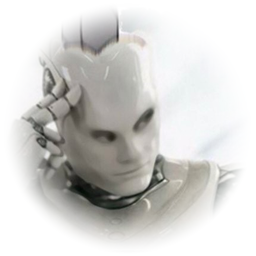
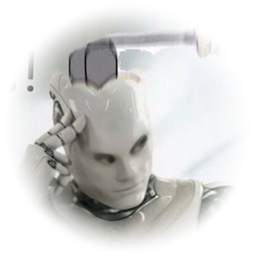
허브 단장 — 배경 도트·떠다니는 카드, 탭 아이콘, 카드 물들임·워터마크·NEW 리본, 깡 아이콘 넓게 다시 자름, 할리갈리 이름 정리

Changed region(s): [[0.0625, 0.0625, 0.9375, 0.9062], [0.7812, 0.5625, 0.8125, 0.5938]]

diff --git a/index.html b/index.html
@@ -107,7 +107,7 @@ header p{margin:0;color:var(--dim);font-size:15px;max-width:42em}
   box-shadow:0 3px 8px -3px var(--gc);
 }
 /* 사진 아이콘 — 가장자리 페이드는 PNG 알파에 구워 넣어서 배경색이 뭐든 자연스럽게 녹는다 */
-.glyph.img{width:54px;height:54px;background:none;box-shadow:none;border-radius:0;overflow:visible}
+.glyph.img{width:68px;height:68px;margin:-8px 0;background:none;box-shadow:none;border-radius:0;overflow:visible}
 .glyph.img img{width:100%;height:100%;display:block;object-fit:cover}
 .name{font-size:19px;font-weight:700;letter-spacing:-.02em}
 .tags{display:flex;gap:6px;flex-wrap:wrap;margin-left:auto}
@@ -138,13 +138,83 @@ footer{
 }
 footer a{color:var(--dim)}
 .disclaimer{margin-left:auto;font-size:11.5px;color:var(--faint);opacity:.75;text-align:right}
+
+/* ══ 꾸밈 ══ */
+body{
+  background-image:
+    radial-gradient(rgba(0,0,0,.045) 1px, transparent 1.2px),
+    radial-gradient(700px 320px at 12% -8%, rgba(216,51,43,.12), transparent 60%),
+    radial-gradient(600px 300px at 92% 4%, rgba(180,87,31,.12), transparent 60%);
+  background-size:22px 22px, auto, auto;
+}
+@media (prefers-color-scheme:dark){ body{background-image:
+    radial-gradient(rgba(255,255,255,.045) 1px, transparent 1.2px),
+    radial-gradient(700px 320px at 12% -8%, rgba(216,51,43,.16), transparent 60%),
+    radial-gradient(600px 300px at 92% 4%, rgba(180,87,31,.12), transparent 60%)} }
+.wrap{position:relative;z-index:1}
+/* 뒤에서 천천히 떠다니는 카드 실루엣 */
+.bgcards{position:fixed;inset:0;overflow:hidden;pointer-events:none;z-index:0}
+.bgcards i{
+  position:absolute;width:64px;height:90px;border-radius:9px;
+  border:2px solid var(--line);background:var(--panel);opacity:.55;
+  animation:drift var(--t,26s) ease-in-out infinite alternate;
+}
+.bgcards i:nth-child(1){left:6%;top:18%;--t:24s;rotate:-14deg}
+.bgcards i:nth-child(2){left:16%;top:72%;--t:31s;rotate:9deg;width:50px;height:70px}
+.bgcards i:nth-child(3){left:80%;top:12%;--t:28s;rotate:12deg}
+.bgcards i:nth-child(4){left:90%;top:64%;--t:22s;rotate:-7deg;width:54px;height:76px}
+.bgcards i:nth-child(5){left:46%;top:88%;--t:34s;rotate:4deg}
+.bgcards i:nth-child(6){left:60%;top:-4%;--t:27s;rotate:-20deg;width:46px;height:64px}
+@keyframes drift{from{translate:0 0}to{translate:14px -26px}}
+@media (prefers-reduced-motion:reduce){.bgcards i{animation:none}}
+@media (max-width:640px){.bgcards{display:none}}
+
+/* 레드버튼 받침·라벨 */
+.rb{display:flex;flex-direction:column;align-items:center;gap:12px}
+.rb-label{font-size:10px;letter-spacing:.32em;text-transform:uppercase;color:var(--faint);padding-left:.32em}
+.redbtn:hover{filter:brightness(1.1) drop-shadow(0 0 14px rgba(216,51,43,.45))}
+
+/* 탭 아이콘 */
+.tab::before{font-size:13px;opacity:.9}
+.tab[data-cat="전체"]::before{content:"✦"}
+.tab[data-cat="멀티"]::before{content:"👥"}
+.tab[data-cat="싱글"]::before{content:"🧍"}
+.tab[data-cat="보드게임"]::before{content:"🎲"}
+.tab[data-cat="로그라이크"]::before{content:"🗝"}
+.tab[data-cat="장난감"]::before{content:"🔧"}
+
+/* 묶음 제목에 선 */
+h2.sec{display:flex;align-items:center;gap:12px}
+h2.sec::after{content:'';flex:1;height:1px;background:var(--line)}
+
+/* 카드: 게임 색으로 옅게 물들이고, 큰 글리프 워터마크, 리본 */
+.card{background:linear-gradient(180deg, color-mix(in srgb, var(--gc) 8%, var(--panel)), var(--panel) 52%)}
+.card::after{
+  content:attr(data-glyph);position:absolute;right:-10px;bottom:-22px;
+  font-size:96px;line-height:1;opacity:.07;pointer-events:none;
+  filter:grayscale(1);transform:rotate(-12deg);transition:transform .25s, opacity .25s;
+}
+.card:hover::after{transform:rotate(-4deg) scale(1.08);opacity:.12}
+.card:hover .glyph{rotate:-6deg;scale:1.08}
+.glyph{transition:rotate .2s, scale .2s}
+.card:hover::before{height:6px}
+.card::before{transition:height .16s}
+.new{
+  font-size:10px;font-weight:800;letter-spacing:.12em;color:#fff;background:var(--red);
+  border-radius:999px;padding:2px 8px;line-height:1.5;
+  animation:blink 2.4s ease-in-out infinite;
+}
+@keyframes blink{50%{opacity:.55}}
+@media (prefers-reduced-motion:reduce){.new{animation:none}}
+a.btn.play::before{content:"▶";font-size:10px;margin-right:6px;opacity:.9}
 </style>
 </head>
 <body>
+<div class="bgcards" aria-hidden="true"><i></i><i></i><i></i><i></i><i></i><i></i></div>
 <div class="wrap">
 
 <header>
-  <button class="redbtn" id="redbtn" aria-label="레드버튼 — 랜덤으로 시작" title="랜덤으로 시작"></button>
+  <div class="rb"><button class="redbtn" id="redbtn" aria-label="레드버튼 — 랜덤으로 시작" title="랜덤으로 시작"></button><span class="rb-label">random</span></div>
   <div class="hgroup">
     <h1>41ways의 <span class="dot">레드버튼</span></h1>
     <p>만든 게임과 장난감. 대부분 브라우저에서 바로 열림. 빨간 버튼을 누르면 랜덤으로 시작.</p>
@@ -164,7 +234,7 @@ footer a{color:var(--dim)}
 <h2 class="sec" data-sec>바로 하기</h2>
 <div class="list" data-sec>
 
-  <article data-cat="싱글" style="--gc:#1c1f2b;--gc2:#c9a961" class="card">
+  <article data-glyph="🕯" data-cat="싱글" style="--gc:#1c1f2b;--gc2:#c9a961" class="card">
     <div class="head">
       <span class="glyph" aria-hidden="true">🕯</span>
       <span class="name">무고</span>
@@ -178,7 +248,7 @@ footer a{color:var(--dim)}
     </div>
   </article>
 
-  <article data-cat="멀티 보드게임" style="--gc:#2f4f7a;--gc2:#7d93b3" class="card">
+  <article data-glyph="🧩" data-cat="멀티 보드게임" style="--gc:#2f4f7a;--gc2:#7d93b3" class="card">
     <div class="head">
       <span class="glyph" aria-hidden="true">🧩</span>
       <span class="name">다빈치코드</span>
@@ -191,7 +261,7 @@ footer a{color:var(--dim)}
     </div>
   </article>
 
-  <article data-cat="싱글 로그라이크" style="--gc:#2a2924;--gc2:#c2453a" class="card">
+  <article data-glyph="🃏" data-cat="싱글 로그라이크" style="--gc:#2a2924;--gc2:#c2453a" class="card">
     <div class="head">
       <span class="glyph" aria-hidden="true">🃏</span>
       <span class="name">한 줄</span>
@@ -204,7 +274,7 @@ footer a{color:var(--dim)}
     </div>
   </article>
 
-  <article data-cat="싱글 로그라이크" style="--gc:#3b2e5a;--gc2:#8d6cff" class="card">
+  <article data-glyph="🚀" data-cat="싱글 로그라이크" style="--gc:#3b2e5a;--gc2:#8d6cff" class="card">
     <div class="head">
       <span class="glyph" aria-hidden="true">🚀</span>
       <span class="name">우주탐험</span>
@@ -217,10 +287,10 @@ footer a{color:var(--dim)}
     </div>
   </article>
 
-  <article data-cat="멀티 보드게임" style="--gc:#d9822b;--gc2:#f2c85b" class="card">
+  <article data-glyph="🔔" data-cat="멀티 보드게임" style="--gc:#d9822b;--gc2:#f2c85b" class="card">
     <div class="head">
       <span class="glyph" aria-hidden="true">🔔</span>
-      <span class="name">할리갈리 — 타자 대전</span>
+      <span class="name">할리갈리</span>
       <span class="tags"><span class="tag">보드게임</span><span class="tag">1–6인</span><span class="tag">온라인</span></span>
     </div>
     <p class="desc">종을 치는 대신 과일 이름을 먼저 타자로 치는 사람이 판을 가져감.</p>
@@ -231,10 +301,10 @@ footer a{color:var(--dim)}
     </div>
   </article>
 
-  <article data-cat="멀티 보드게임" style="--gc:#2f6b5e;--gc2:#e0862f" class="card">
+  <article data-glyph="🤖" data-cat="멀티 보드게임" style="--gc:#2f6b5e;--gc2:#e0862f" class="card">
     <div class="head">
       <span class="glyph" aria-hidden="true">🤖</span>
-      <span class="name">로보77</span>
+      <span class="name">로보77</span><span class="new">NEW</span>
       <span class="tags"><span class="tag">보드게임</span><span class="tag">1–6인</span><span class="tag">온라인</span></span>
     </div>
     <p class="desc">카드를 한 장씩 내면서 합을 쌓다가, 77을 넘기거나 11의 배수를 밟으면 하트가 깎임.</p>
@@ -245,7 +315,7 @@ footer a{color:var(--dim)}
     </div>
   </article>
 
-  <article data-cat="멀티 보드게임" style="--gc:#4f7a3a;--gc2:#c98a3c" class="card">
+  <article data-glyph="🌾" data-cat="멀티 보드게임" style="--gc:#4f7a3a;--gc2:#c98a3c" class="card">
     <div class="head">
       <span class="glyph" aria-hidden="true">🌾</span>
       <span class="name">카탄</span>
@@ -259,7 +329,7 @@ footer a{color:var(--dim)}
     </div>
   </article>
 
-  <article data-cat="멀티 보드게임" style="--gc:#5a3f7a;--gc2:#e0b64a" class="card">
+  <article data-glyph="💎" data-cat="멀티 보드게임" style="--gc:#5a3f7a;--gc2:#e0b64a" class="card">
     <div class="head">
       <span class="glyph" aria-hidden="true">💎</span>
       <span class="name">스플렌더</span>
